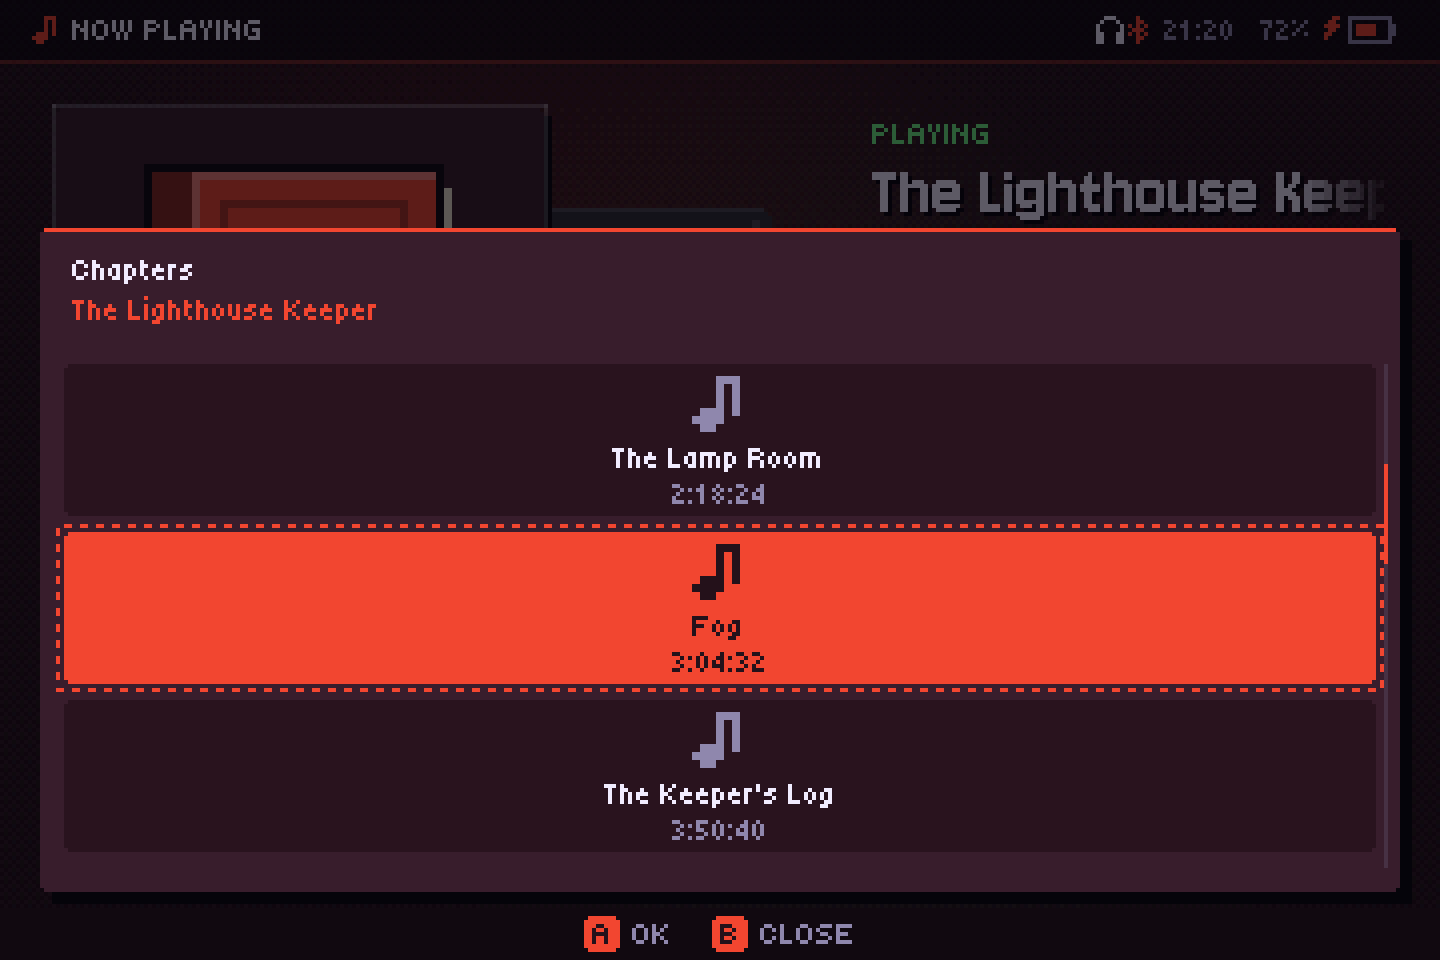
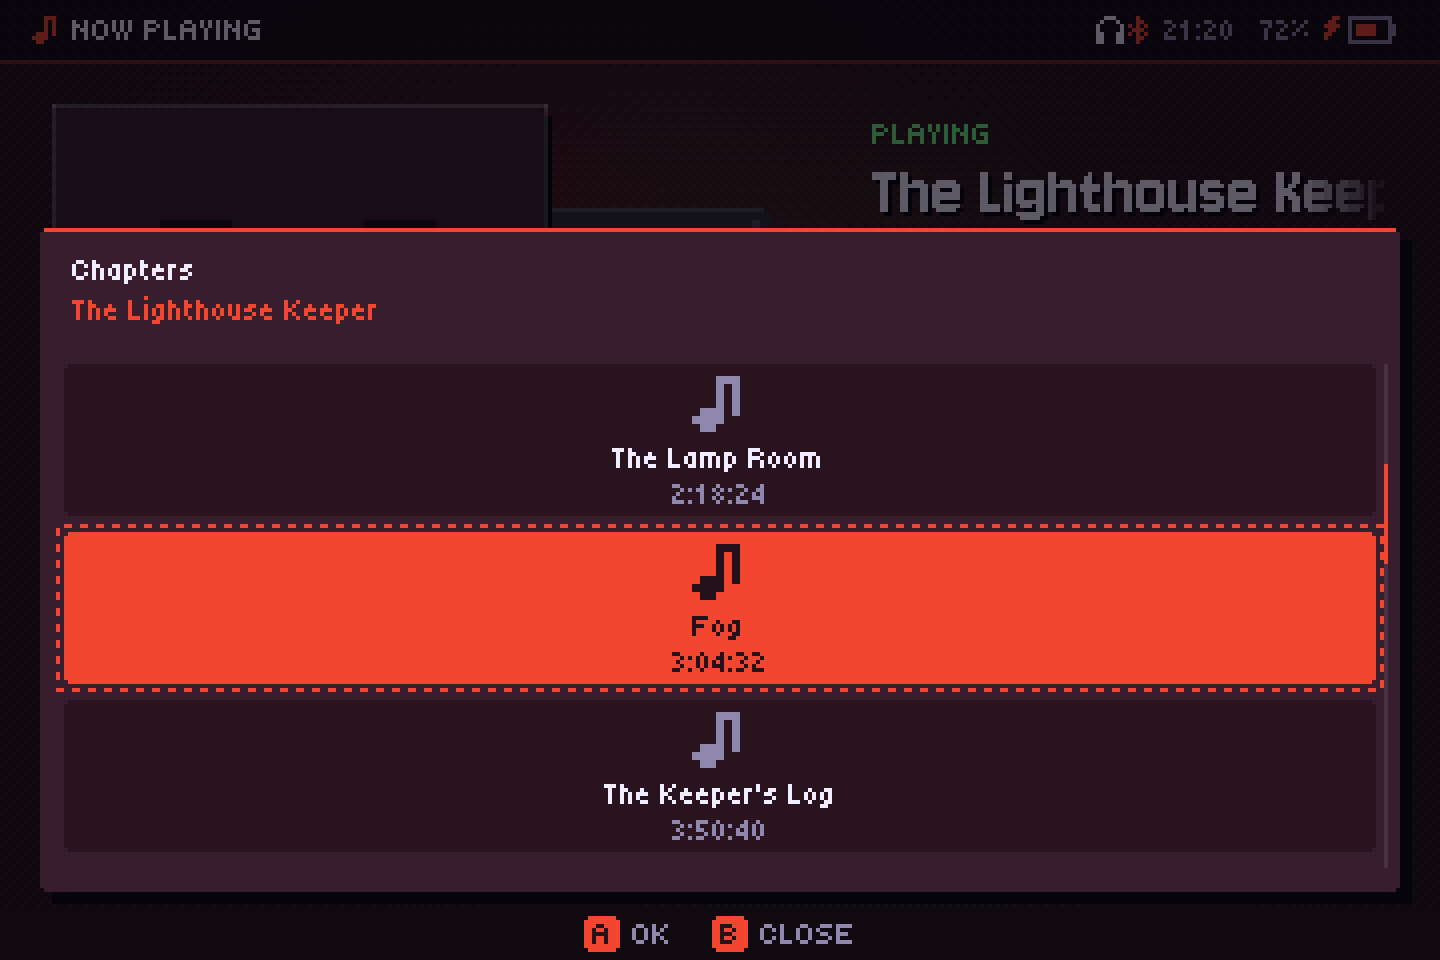
Audiobooks without a cover: a hand-drawn open book sprite (29×24, theme palette, integer scaling) instead of the vector drawing

Changed region(s): [[0.0938, 0.1562, 0.3125, 0.25]]

diff --git a/internal/ui/bookart.go b/internal/ui/bookart.go
@@ -1,8 +1,10 @@
 package ui
 
 import (
+	"image"
 	"image/color"
 	"math"
+	"strings"
 
 	"github.com/hajimehoshi/ebiten/v2"
 	"github.com/hajimehoshi/ebiten/v2/vector"
@@ -87,68 +89,84 @@ func drawCassette(dst *ebiten.Image, cx, cy, r int, angle, progress float64, th 
 	}
 }
 
-// drawBookArt pinta un libro de tapa dura en el cuadro de la portada
-// (size×size), para los audiolibros sin portada: la tapa del color del disco
-// con su marco y la placa del título, el lomo con sus nervios, el canto de
-// las hojas, la cinta de marcapáginas y su sombra; todo con contorno, como
-// pixel art.
+// bookSprite es el libro abierto de los audiolibros sin portada, dibujado a
+// mano píxel a píxel como los iconos (29×24): o contorno, P página, S y s
+// sombra de la página, T texto, C tapa (el color del disco), D su sombra y
+// R la cinta de marcapáginas (el segundo color).
+const bookSprite = `
+.............................
+...oooooo...........oooooo...
+..oPPPPPPooo.....oooPPPPPPo..
+.oPPPPPPPPPPoo.ooPPPPPPPPPPo.
+.oPPPPPPPPPPPSoSPPPPPPPPPPPo.
+.oPPTTTTTPPPPSoSPPTTTTTTTPPo.
+.oPPPPPPPPPPPSoSPPPPPPPPPPPo.
+.oPPTTTTTTTPPSoSPPTTTTTTTTPo.
+.oPPPPPPPPPPPSoSPPPPPPPPPPPo.
+.oPPTTTTTTPPPSoSPPTTTTTTPPPo.
+.oPPPPPPPPPPPSoSPPPPPPPPPPPo.
+.oPPTTTTTTTPPSoSPPTTTTTTTTPo.
+.oPPPPPPPPPPPSoSPPPPPPPPPPPo.
+.oPPTTTTPPPPPSoSPPTTTTTPPPPo.
+.oPPPPPPPPPPPSoSPPPPPPPPPPPo.
+.oPPPPPPPPPPPSoSPPPPPPPPPPPo.
+.osPPPPPPPPPPSoSPPPPPPPPPPso.
+.ossssPPPPPPPSoSPPPPPPPsssso.
+oCoooossssPPPSoSPPPssssooooCo
+oCCCCCoooosssSoSsssooooCCCCCo
+oCCCCCCCCCooooRooooCCCCCCCCCo
+oDDDDDDDDDDDDDRDDDDDDDDDDDDDo
+.oooooooooooooRooooooooooooo.
+..............R..............`
+
+// bookSprites son los libros ya pintados, por tema (cambia con el disco).
+var bookSprites = map[Theme]*ebiten.Image{}
+
+// bookImage es el libro con los colores de th.
+func bookImage(th Theme) *ebiten.Image {
+	if img, ok := bookSprites[th]; ok {
+		return img
+	}
+	rows := strings.Split(strings.Trim(bookSprite, "\n"), "\n")
+	pal := map[byte]color.RGBA{
+		'o': mix(th.Shadow, color.RGBA{0x1a, 0x14, 0x22, 0xff}, 0.5),
+		'P': {0xee, 0xe6, 0xd2, 0xff},
+		'S': {0xce, 0xc2, 0xac, 0xff},
+		's': {0xd6, 0xcc, 0xb8, 0xff},
+		'T': {0x96, 0x8c, 0x80, 0xff},
+		'C': th.Accent,
+		'D': mix(th.Accent, th.Shadow, 0.4),
+		'R': th.Accent2,
+	}
+	img := image.NewRGBA(image.Rect(0, 0, len(rows[0]), len(rows)))
+	for y, r := range rows {
+		for x := 0; x < len(r); x++ {
+			if c, ok := pal[r[x]]; ok {
+				img.SetRGBA(x, y, c)
+			}
+		}
+	}
+	if len(bookSprites) > 32 {
+		for k, v := range bookSprites {
+			v.Deallocate()
+			delete(bookSprites, k)
+		}
+	}
+	e := ebiten.NewImageFromImage(img)
+	bookSprites[th] = e
+	return e
+}
+
+// drawBookArt pinta el libro en el cuadro de la portada (size×size), para
+// los audiolibros sin portada: el sprite a la mayor escala entera que quepa,
+// centrado.
 func drawBookArt(dst *ebiten.Image, x, y, size int, th Theme) {
 	panel(dst, x, y, size, size, th.Bg2)
-	u := max(1, size/48) // un "pixel" del dibujo
-	bw, bh := size*50/100, size*68/100
-	bx, by := x+(size-bw)/2+u*2, y+(size-bh)/2-u*2
-	spine, pages := size*9/100, max(2, size*4/100)
-	outline := mix(th.Shadow, th.Bg, 0.3)
-	cover := th.Accent
-	dark := mix(th.Accent, th.Shadow, 0.45)
-	light := mix(th.Accent, th.Text, 0.35)
-	paper := color.RGBA{0xee, 0xe6, 0xd2, 0xff}
-	paperLine := mix(paper, th.Shadow, 0.25)
-
-	// La sombra, abajo a la derecha.
-	rect(dst, bx-spine+u*2, by+bh+pages, bw+spine+pages, u*2, withAlpha(th.Shadow, 0x90))
-	// El canto de las hojas: a la derecha y abajo, con rayas.
-	rect(dst, bx+u, by+pages, bw+pages-u, bh, paper)
-	for k := by + pages + u*2; k < by+bh+pages-u; k += u * 2 {
-		rect(dst, bx+bw, k, pages-u, max(1, u/2), paperLine)
-	}
-	for k := bx + u*2; k < bx+bw; k += u * 3 {
-		rect(dst, k, by+bh, max(1, u/2), pages-u, paperLine)
-	}
-	// La tapa, con su contorno, el brillo arriba y a la izquierda.
-	rect(dst, bx-u, by-u, bw+u*2, bh+u*2, outline)
-	rect(dst, bx, by, bw, bh, cover)
-	rect(dst, bx, by, bw, u, light)
-	rect(dst, bx, by, u, bh, light)
-	// El marco grabado y la placa clara del título, con dos líneas.
-	fm := size * 6 / 100
-	frame := mix(cover, th.Shadow, 0.3)
-	rect(dst, bx+fm, by+fm, bw-2*fm, u, frame)
-	rect(dst, bx+fm, by+bh-fm-u, bw-2*fm, u, frame)
-	rect(dst, bx+fm, by+fm, u, bh-2*fm, frame)
-	rect(dst, bx+bw-fm-u, by+fm, u, bh-2*fm, frame)
-	px, py, pw, ph := bx+fm*2, by+bh*22/100, bw-fm*4, bh*22/100
-	rect(dst, px-u, py-u, pw+u*2, ph+u*2, outline)
-	rect(dst, px, py, pw, ph, paper)
-	rect(dst, px+pw/8, py+ph/3, pw*3/4, max(1, u), mix(th.Shadow, paper, 0.2))
-	rect(dst, px+pw/4, py+ph*2/3, pw/2, max(1, u), mix(th.Shadow, paper, 0.4))
-	// Un adorno debajo: un rombo.
-	cx, cy, d := bx+bw/2, by+bh*66/100, max(2, size/18)
-	for k := 0; k <= d; k++ {
-		rect(dst, cx-k, cy-d+k, 2*k+1, 1, light)
-		rect(dst, cx-k, cy+d-k, 2*k+1, 1, light)
-	}
-	// El lomo, más oscuro, con tres nervios.
-	rect(dst, bx-spine-u, by-u, spine+u, bh+u*2, outline)
-	rect(dst, bx-spine, by, spine, bh, dark)
-	for _, f := range []int{18, 50, 82} {
-		ry := by + bh*f/100
-		rect(dst, bx-spine, ry, spine, u*2, mix(dark, th.Text, 0.25))
-		rect(dst, bx-spine, ry+u*2, spine, u, outline)
-	}
-	// La cinta de marcapáginas, colgando por abajo.
-	rw := max(2, size/22)
-	rx := bx + bw*70/100
-	rect(dst, rx, by+bh, rw, size*9/100, th.Accent2)
-	rect(dst, rx, by+bh+size*9/100, rw/2, u, th.Accent2) // la punta en V
+	img := bookImage(th)
+	w, h := img.Bounds().Dx(), img.Bounds().Dy()
+	k := max(1, size*82/100/w)
+	op := &ebiten.DrawImageOptions{}
+	op.GeoM.Scale(float64(k), float64(k))
+	op.GeoM.Translate(float64(x+(size-w*k)/2), float64(y+(size-h*k)/2))
+	dst.DrawImage(img, op)
 }
